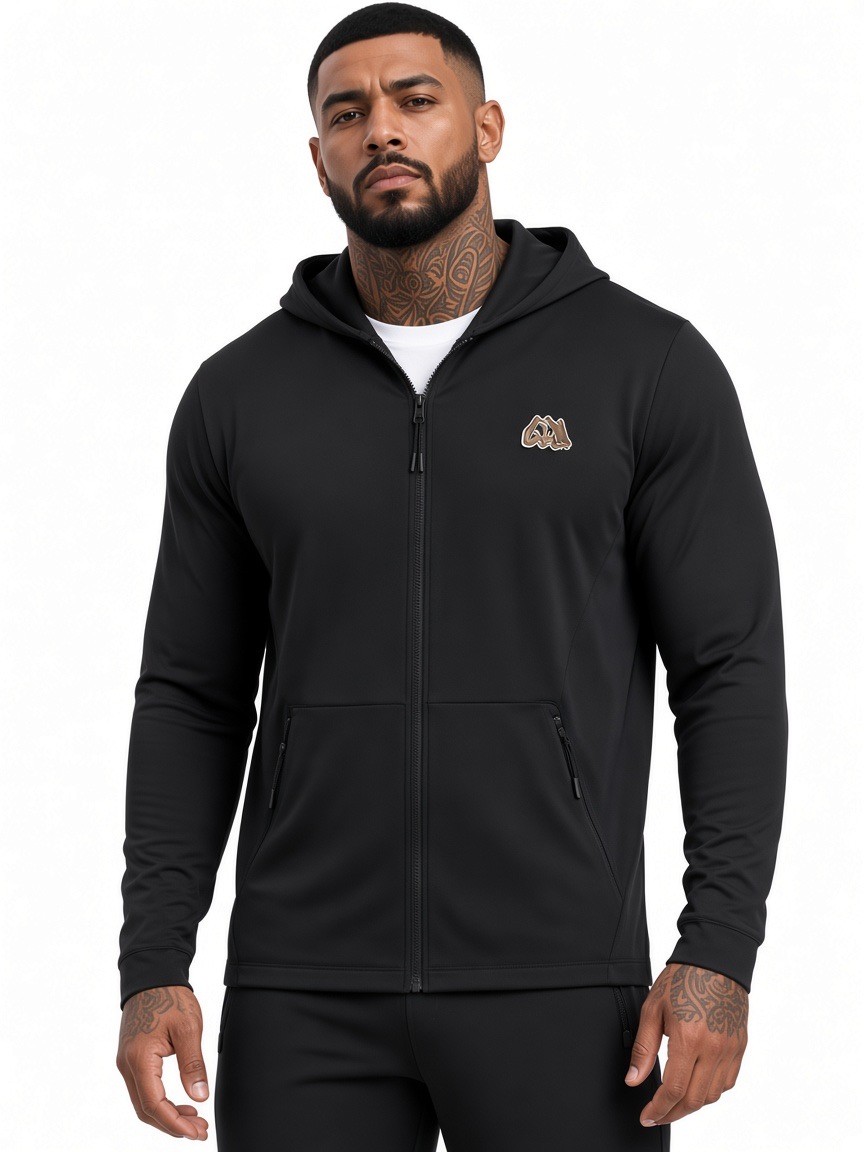
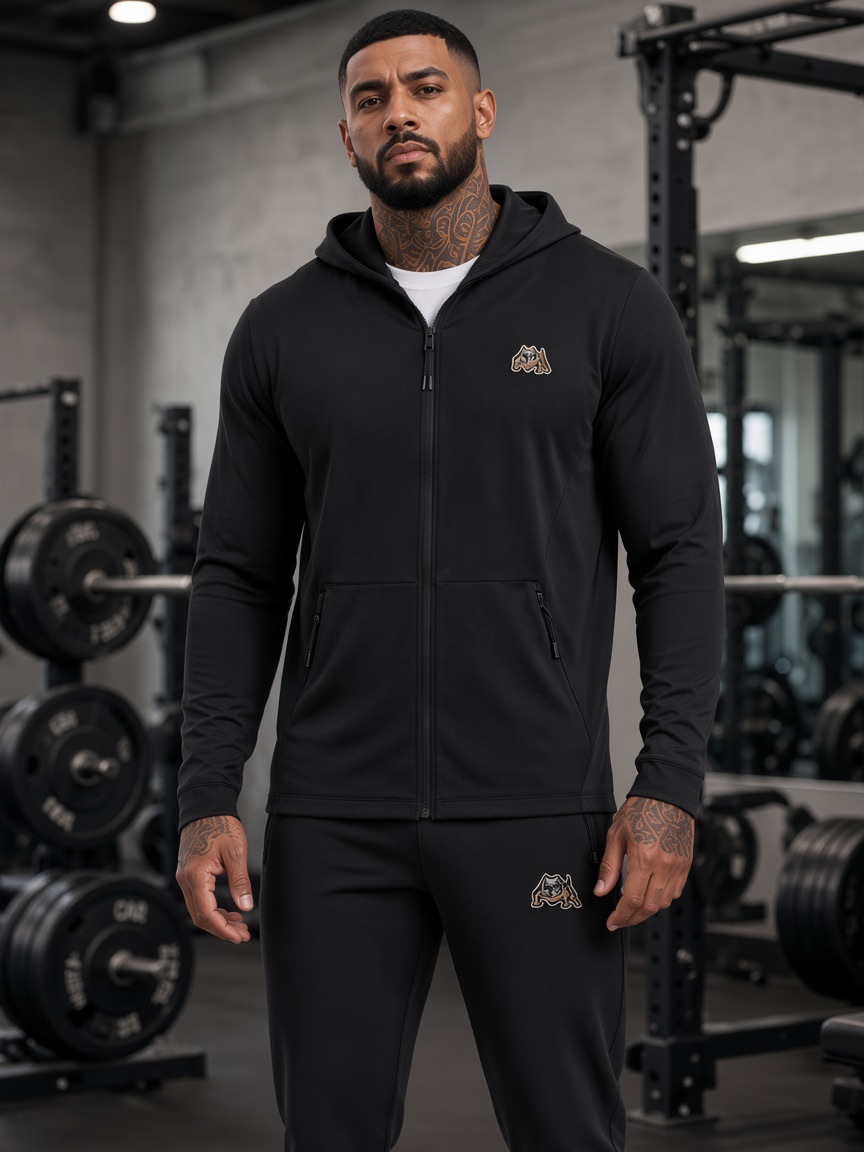
Refresh Mark Zip Set with pant Mark embroidery in a gym.
Recast on a more muscular model, add micro left-thigh bulldog to match chest Mark, shoot against racks/weights, and cache-bust lookbook URLs.

diff --git a/js/site-config.js b/js/site-config.js
@@ -7,7 +7,7 @@
  */
 (function () {
   // Bump when lookbook JPGs change so browsers skip stale CDN/disk cache.
-  const ASSET_V = '20260922h';
+  const ASSET_V = '20260922i';
 
   const COLORWAYS = [
     { name: 'Pink', slug: 'pink', hex: '#e5b3c5' },
@@ -149,7 +149,7 @@
         price: 168,
         sizes: ['S', 'M', 'L', 'XL', 'XXL'],
         colors: wornColors('mark-hood'),
-        description: 'Matching athletic zip set — long-sleeve full-zip hooded jacket + slim tapered jogger, one SKU. High zip neck, angled zippered hand pockets, technical matte fleece. Quiet Mark: micro ~1×1″ embroidered exotic bulldog on the left chest only. No slogan. Pink and black.',
+        description: 'Matching athletic zip set — long-sleeve full-zip hooded jacket + slim tapered jogger, one SKU. High zip neck, angled zippered hand pockets, technical matte fleece. Quiet Mark: micro ~1×1″ embroidered exotic bulldog on the left chest and matching micro Mark on the left upper thigh. No slogan. Pink and black.',
         image: worn('mark-hood', 'black'),
         fit: 'cover',
         featured: true

diff --git a/collections.html b/collections.html
@@ -8,8 +8,8 @@
   <link rel="preconnect" href="https://fonts.gstatic.com" crossorigin>
   <link rel="stylesheet" href="https://fonts.googleapis.com/css2?family=Outfit:wght@400;500;600;700&family=UnifrakturMaguntia&display=swap">
   <title>Collections — {{BRAND}}</title>
-  <link rel="stylesheet" href="css/brand.css?v=20260922h">
-  <link rel="stylesheet" href="css/main.css?v=20260922h">
+  <link rel="stylesheet" href="css/brand.css?v=20260922i">
+  <link rel="stylesheet" href="css/main.css?v=20260922i">
 </head>
 <body data-page="collections">
   <header class="site-header" data-site-header></header>
@@ -31,8 +31,8 @@
 
   <footer class="site-footer" data-site-footer></footer>
 
-  <script src="js/site-config.js?v=20260922h"></script>
-  <script src="js/catalog.js?v=20260922h"></script>
-  <script src="js/layout.js?v=20260922h"></script>
+  <script src="js/site-config.js?v=20260922i"></script>
+  <script src="js/catalog.js?v=20260922i"></script>
+  <script src="js/layout.js?v=20260922i"></script>
 </body>
 </html>

diff --git a/404.html b/404.html
@@ -8,8 +8,8 @@
   <link rel="preconnect" href="https://fonts.gstatic.com" crossorigin>
   <link rel="stylesheet" href="https://fonts.googleapis.com/css2?family=Outfit:wght@400;500;600;700&family=UnifrakturMaguntia&display=swap">
   <title>Page not found — {{BRAND}}</title>
-  <link rel="stylesheet" href="css/brand.css?v=20260922h">
-  <link rel="stylesheet" href="css/main.css?v=20260922h">
+  <link rel="stylesheet" href="css/brand.css?v=20260922i">
+  <link rel="stylesheet" href="css/main.css?v=20260922i">
 </head>
 <body data-page="404">
   <header class="site-header" data-site-header></header>
@@ -26,8 +26,8 @@
 
   <footer class="site-footer" data-site-footer></footer>
 
-  <script src="js/site-config.js?v=20260922h"></script>
-  <script src="js/catalog.js?v=20260922h"></script>
-  <script src="js/layout.js?v=20260922h"></script>
+  <script src="js/site-config.js?v=20260922i"></script>
+  <script src="js/catalog.js?v=20260922i"></script>
+  <script src="js/layout.js?v=20260922i"></script>
 </body>
 </html>

diff --git a/thanks.html b/thanks.html
@@ -8,8 +8,8 @@
   <link rel="preconnect" href="https://fonts.gstatic.com" crossorigin>
   <link rel="stylesheet" href="https://fonts.googleapis.com/css2?family=Outfit:wght@400;500;600;700&family=UnifrakturMaguntia&display=swap">
   <title>Thank you — {{BRAND}}</title>
-  <link rel="stylesheet" href="css/brand.css?v=20260922h">
-  <link rel="stylesheet" href="css/main.css?v=20260922h">
+  <link rel="stylesheet" href="css/brand.css?v=20260922i">
+  <link rel="stylesheet" href="css/main.css?v=20260922i">
 </head>
 <body data-page="thanks">
   <header class="site-header" data-site-header></header>
@@ -24,8 +24,8 @@
 
   <footer class="site-footer" data-site-footer></footer>
 
-  <script src="js/site-config.js?v=20260922h"></script>
-  <script src="js/catalog.js?v=20260922h"></script>
-  <script src="js/layout.js?v=20260922h"></script>
+  <script src="js/site-config.js?v=20260922i"></script>
+  <script src="js/catalog.js?v=20260922i"></script>
+  <script src="js/layout.js?v=20260922i"></script>
 </body>
 </html>

diff --git a/contact.html b/contact.html
@@ -8,8 +8,8 @@
   <link rel="preconnect" href="https://fonts.gstatic.com" crossorigin>
   <link rel="stylesheet" href="https://fonts.googleapis.com/css2?family=Outfit:wght@400;500;600;700&family=UnifrakturMaguntia&display=swap">
   <title>Contact — {{BRAND}}</title>
-  <link rel="stylesheet" href="css/brand.css?v=20260922h">
-  <link rel="stylesheet" href="css/main.css?v=20260922h">
+  <link rel="stylesheet" href="css/brand.css?v=20260922i">
+  <link rel="stylesheet" href="css/main.css?v=20260922i">
 </head>
 <body data-page="contact">
   <header class="site-header" data-site-header></header>
@@ -67,8 +67,8 @@
 
   <footer class="site-footer" data-site-footer></footer>
 
-  <script src="js/site-config.js?v=20260922h"></script>
-  <script src="js/catalog.js?v=20260922h"></script>
-  <script src="js/layout.js?v=20260922h"></script>
+  <script src="js/site-config.js?v=20260922i"></script>
+  <script src="js/catalog.js?v=20260922i"></script>
+  <script src="js/layout.js?v=20260922i"></script>
 </body>
 </html>

diff --git a/privacy.html b/privacy.html
@@ -8,8 +8,8 @@
   <link rel="preconnect" href="https://fonts.gstatic.com" crossorigin>
   <link rel="stylesheet" href="https://fonts.googleapis.com/css2?family=Outfit:wght@400;500;600;700&family=UnifrakturMaguntia&display=swap">
   <title>Privacy — {{BRAND}}</title>
-  <link rel="stylesheet" href="css/brand.css?v=20260922h">
-  <link rel="stylesheet" href="css/main.css?v=20260922h">
+  <link rel="stylesheet" href="css/brand.css?v=20260922i">
+  <link rel="stylesheet" href="css/main.css?v=20260922i">
 </head>
 <body data-page="privacy">
   <header class="site-header" data-site-header></header>
@@ -29,8 +29,8 @@
 
   <footer class="site-footer" data-site-footer></footer>
 
-  <script src="js/site-config.js?v=20260922h"></script>
-  <script src="js/catalog.js?v=20260922h"></script>
-  <script src="js/layout.js?v=20260922h"></script>
+  <script src="js/site-config.js?v=20260922i"></script>
+  <script src="js/catalog.js?v=20260922i"></script>
+  <script src="js/layout.js?v=20260922i"></script>
 </body>
 </html>

diff --git a/product.html b/product.html
@@ -8,8 +8,8 @@
   <link rel="preconnect" href="https://fonts.gstatic.com" crossorigin>
   <link rel="stylesheet" href="https://fonts.googleapis.com/css2?family=Outfit:wght@400;500;600;700&family=UnifrakturMaguntia&display=swap">
   <title>Product — {{BRAND}}</title>
-  <link rel="stylesheet" href="css/brand.css?v=20260922h">
-  <link rel="stylesheet" href="css/main.css?v=20260922h">
+  <link rel="stylesheet" href="css/brand.css?v=20260922i">
+  <link rel="stylesheet" href="css/main.css?v=20260922i">
 </head>
 <body data-page="product">
   <header class="site-header" data-site-header></header>
@@ -22,8 +22,8 @@
 
   <footer class="site-footer" data-site-footer></footer>
 
-  <script src="js/site-config.js?v=20260922h"></script>
-  <script src="js/catalog.js?v=20260922h"></script>
-  <script src="js/layout.js?v=20260922h"></script>
+  <script src="js/site-config.js?v=20260922i"></script>
+  <script src="js/catalog.js?v=20260922i"></script>
+  <script src="js/layout.js?v=20260922i"></script>
 </body>
 </html>

diff --git a/about.html b/about.html
@@ -8,8 +8,8 @@
   <link rel="preconnect" href="https://fonts.gstatic.com" crossorigin>
   <link rel="stylesheet" href="https://fonts.googleapis.com/css2?family=Outfit:wght@400;500;600;700&family=UnifrakturMaguntia&display=swap">
   <title>About — {{BRAND}}</title>
-  <link rel="stylesheet" href="css/brand.css?v=20260922h">
-  <link rel="stylesheet" href="css/main.css?v=20260922h">
+  <link rel="stylesheet" href="css/brand.css?v=20260922i">
+  <link rel="stylesheet" href="css/main.css?v=20260922i">
 </head>
 <body data-page="about">
   <header class="site-header" data-site-header></header>
@@ -29,8 +29,8 @@
 
   <footer class="site-footer" data-site-footer></footer>
 
-  <script src="js/site-config.js?v=20260922h"></script>
-  <script src="js/catalog.js?v=20260922h"></script>
-  <script src="js/layout.js?v=20260922h"></script>
+  <script src="js/site-config.js?v=20260922i"></script>
+  <script src="js/catalog.js?v=20260922i"></script>
+  <script src="js/layout.js?v=20260922i"></script>
 </body>
 </html>

diff --git a/shop.html b/shop.html
@@ -8,8 +8,8 @@
   <link rel="preconnect" href="https://fonts.gstatic.com" crossorigin>
   <link rel="stylesheet" href="https://fonts.googleapis.com/css2?family=Outfit:wght@400;500;600;700&family=UnifrakturMaguntia&display=swap">
   <title>Shop — {{BRAND}}</title>
-  <link rel="stylesheet" href="css/brand.css?v=20260922h">
-  <link rel="stylesheet" href="css/main.css?v=20260922h">
+  <link rel="stylesheet" href="css/brand.css?v=20260922i">
+  <link rel="stylesheet" href="css/main.css?v=20260922i">
 </head>
 <body data-page="shop">
   <header class="site-header" data-site-header></header>
@@ -32,8 +32,8 @@
 
   <footer class="site-footer" data-site-footer></footer>
 
-  <script src="js/site-config.js?v=20260922h"></script>
-  <script src="js/catalog.js?v=20260922h"></script>
-  <script src="js/layout.js?v=20260922h"></script>
+  <script src="js/site-config.js?v=20260922i"></script>
+  <script src="js/catalog.js?v=20260922i"></script>
+  <script src="js/layout.js?v=20260922i"></script>
 </body>
 </html>

diff --git a/index.html b/index.html
@@ -23,8 +23,8 @@
   <meta name="twitter:image" content="https://jimmythegod100.github.io/bvlly/images/og.jpg">
   <link rel="canonical" href="https://jimmythegod100.github.io/bvlly/">
   <link rel="icon" href="favicon.svg">
-  <link rel="stylesheet" href="css/brand.css?v=20260922h">
-  <link rel="stylesheet" href="css/main.css?v=20260922h">
+  <link rel="stylesheet" href="css/brand.css?v=20260922i">
+  <link rel="stylesheet" href="css/main.css?v=20260922i">
 </head>
 <body data-page="home">
   <header class="site-header" data-site-header></header>
@@ -87,8 +87,8 @@
 
   <footer class="site-footer" data-site-footer></footer>
 
-  <script src="js/site-config.js?v=20260922h"></script>
-  <script src="js/catalog.js?v=20260922h"></script>
-  <script src="js/layout.js?v=20260922h"></script>
+  <script src="js/site-config.js?v=20260922i"></script>
+  <script src="js/catalog.js?v=20260922i"></script>
+  <script src="js/layout.js?v=20260922i"></script>
 </body>
 </html>
